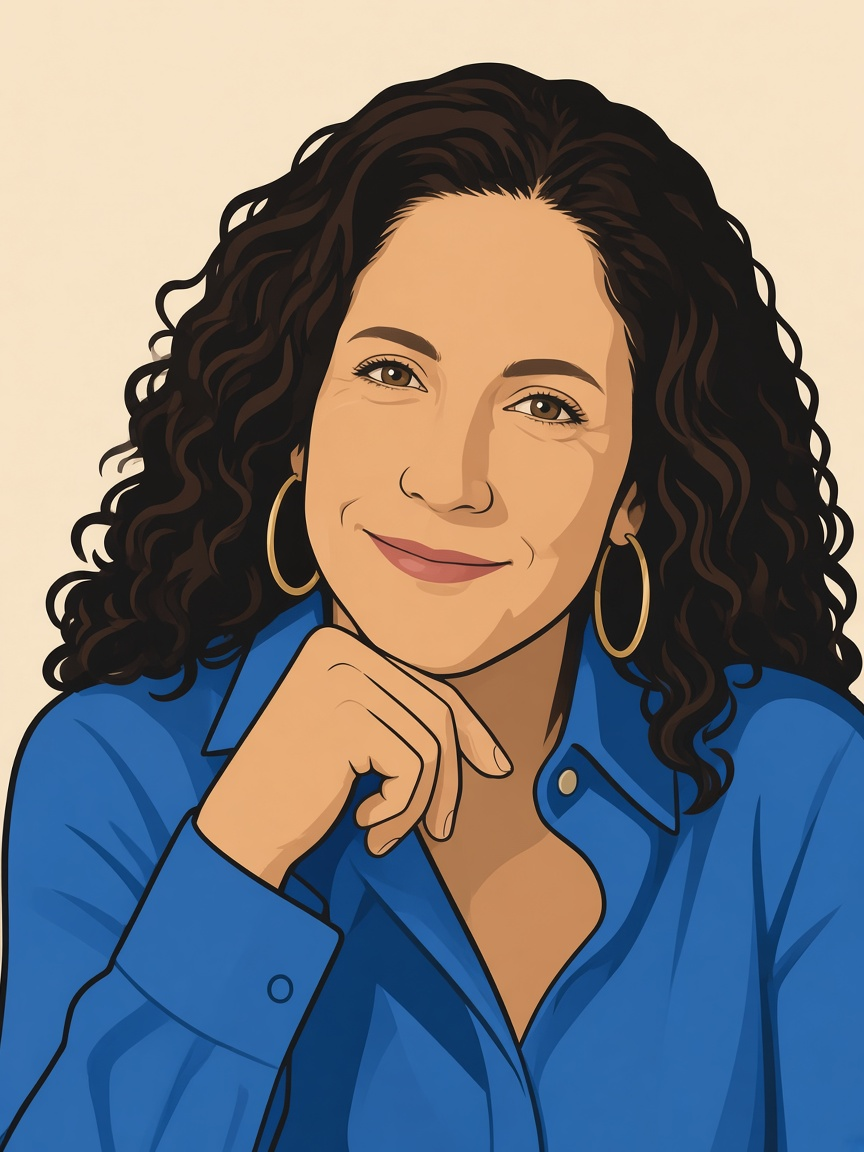
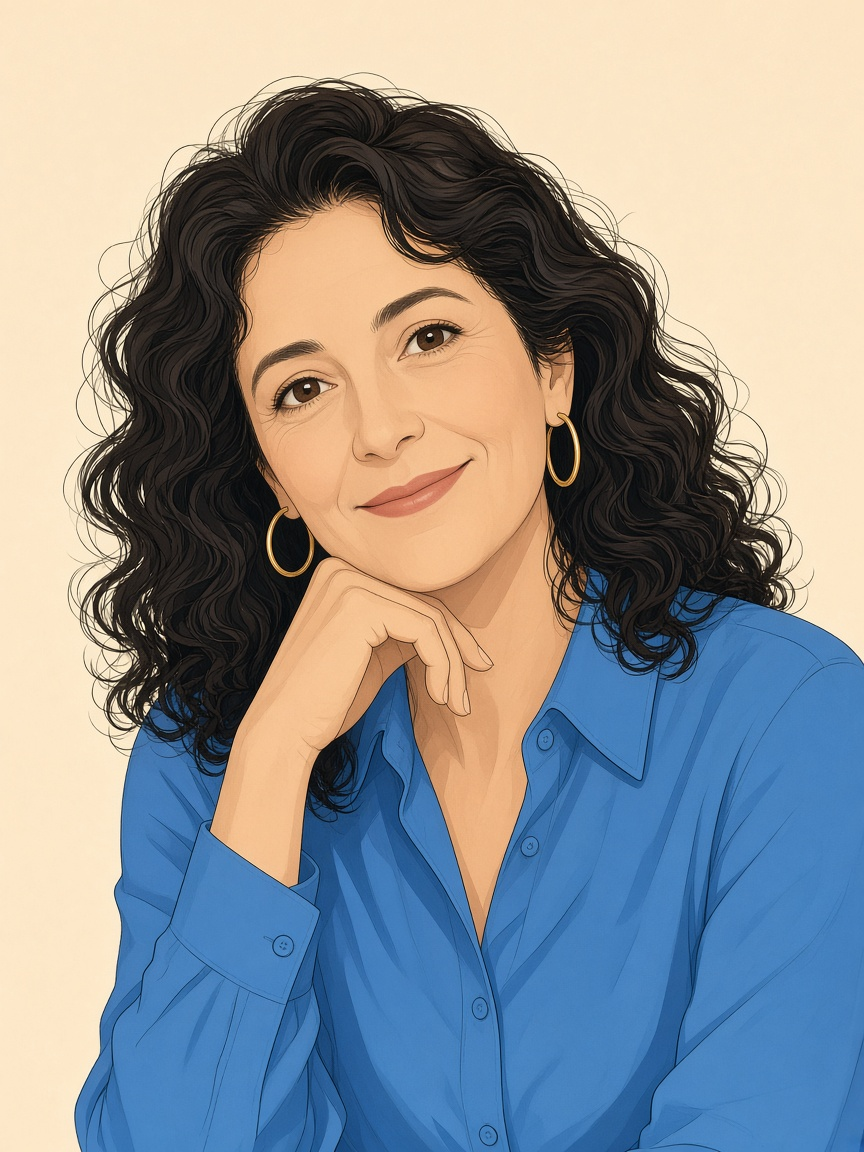
Thin Vivian Zayas's portrait lines to match the Roland illustration.

diff --git a/class-onsite.html b/class-onsite.html
@@ -2,7 +2,7 @@
 <html lang="en">
 <head>
   <meta charset="utf-8">
-  <script src="roster-data.js?v=8"></script>
+  <script src="roster-data.js?v=9"></script>
   <script>if(new URLSearchParams(location.search).get("p")&&new URLSearchParams(location.search).get("p")!=="gunther-roland")document.documentElement.classList.add("prof-pending");</script>
   <style>html.prof-pending body{visibility:hidden}</style>
 

diff --git a/class-recorded.html b/class-recorded.html
@@ -2,7 +2,7 @@
 <html lang="en">
 <head>
   <meta charset="utf-8">
-  <script src="roster-data.js?v=8"></script>
+  <script src="roster-data.js?v=9"></script>
   <script>if(new URLSearchParams(location.search).get("p")&&new URLSearchParams(location.search).get("p")!=="gunther-roland")document.documentElement.classList.add("prof-pending");</script>
   <style>html.prof-pending body{visibility:hidden}</style>
 

diff --git a/class.html b/class.html
@@ -2,7 +2,7 @@
 <html lang="en">
 <head>
   <meta charset="utf-8">
-  <script src="roster-data.js?v=8"></script>
+  <script src="roster-data.js?v=9"></script>
   <script>if(new URLSearchParams(location.search).get("p")&&new URLSearchParams(location.search).get("p")!=="gunther-roland")document.documentElement.classList.add("prof-pending");</script>
   <style>html.prof-pending body{visibility:hidden}</style>
 

diff --git a/index.html b/index.html
@@ -2,7 +2,7 @@
 <html lang="en">
 <head>
   <meta charset="utf-8">
-  <script src="roster-data.js?v=8"></script>
+  <script src="roster-data.js?v=9"></script>
   <script>if(new URLSearchParams(location.search).get("p")&&new URLSearchParams(location.search).get("p")!=="gunther-roland")document.documentElement.classList.add("prof-pending");</script>
   <style>html.prof-pending body{visibility:hidden}</style>
 

diff --git a/research.html b/research.html
@@ -2,7 +2,7 @@
 <html lang="en">
 <head>
   <meta charset="utf-8">
-  <script src="roster-data.js?v=8"></script>
+  <script src="roster-data.js?v=9"></script>
   <script>if(new URLSearchParams(location.search).get("p")&&new URLSearchParams(location.search).get("p")!=="gunther-roland")document.documentElement.classList.add("prof-pending");</script>
   <style>html.prof-pending body{visibility:hidden}</style>
 

diff --git a/roster-data.js b/roster-data.js
@@ -551,7 +551,7 @@ window.LECTURE_ROSTER = [
       }
     ],
     "joinCopy": "Work with Vivian Zayas on Personality science, Close relationships, Social cognition.",
-    "photo": "assets/portraits/vivian-zayas.jpg?v=3",
+    "photo": "assets/portraits/vivian-zayas.jpg?v=4",
     "template": false
   },
   {
